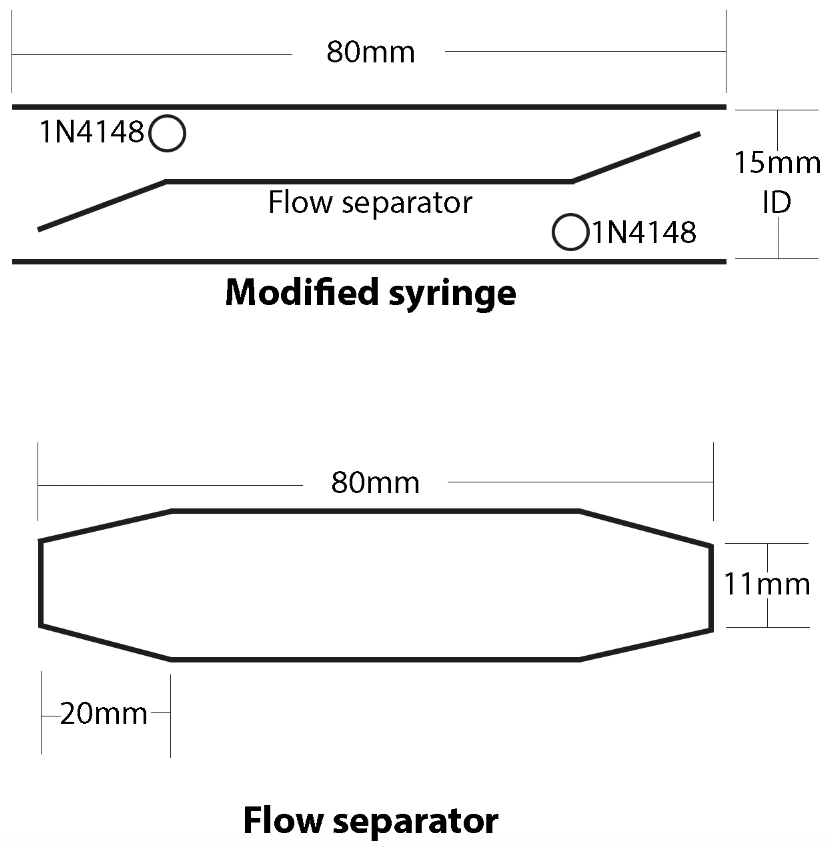
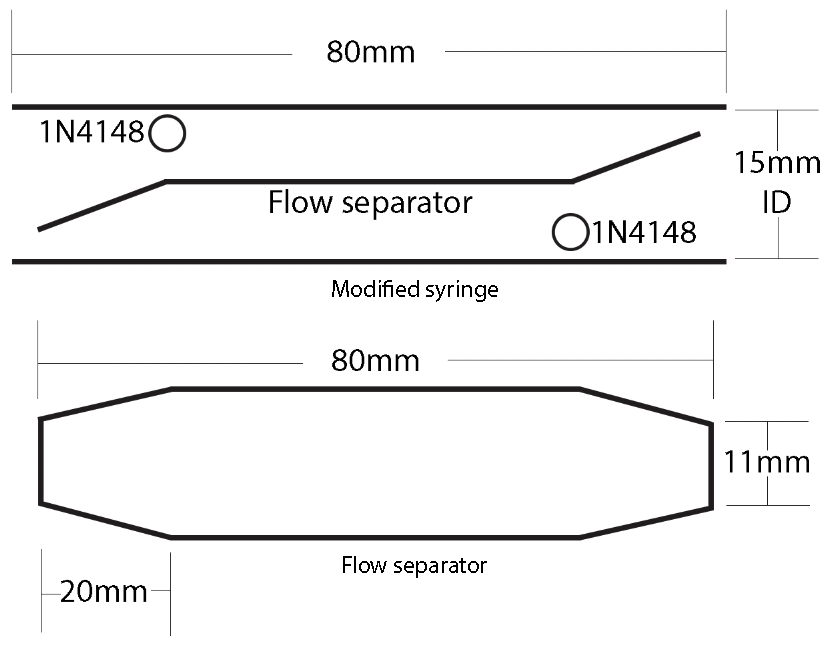
Release 1.0

diff --git a/README.md b/README.md
@@ -25,7 +25,7 @@ Flow separator:
 
 **Dimensions:**
 
-![alt_text](images/draw_1.png "image_tooltip")
+<div align="center">![alt_text](images/draw_1.png "image_tooltip")</div>
 
 
 **Prototype Circuit:**
@@ -43,4 +43,4 @@ Flow separator:
 *   Depending on the ambient temperature, about 10 seconds of Warm up time needed.
 *   Noise shielding is necessary on the final circuit.
 
-**Use it at your own risk. Good Luck.**
+<div align="center">**Use it at your own risk. Good Luck.**</div>
